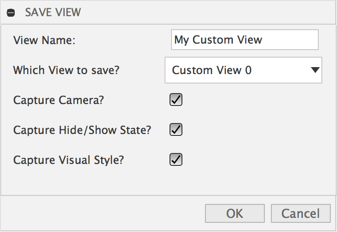
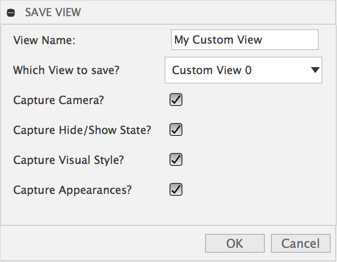
Added Appearances

diff --git a/SaveViewCommand.py b/SaveViewCommand.py
@@ -6,6 +6,7 @@ from .Fusion360Utilities.Fusion360Utilities import AppObjects, get_default_dir
 from .Fusion360Utilities.Fusion360CommandBase import Fusion360CommandBase
 
 import json
+from collections import defaultdict
 
 
 def make_point(point: adsk.core.Point3D):
@@ -130,6 +131,24 @@ def delete_tooltips():
         command_defintion.controlDefinition.isEnabled = False
 
 
+def delete_appearance_attributes():
+    ao = AppObjects()
+
+    appearance_object_attributes = ao.document.attributes.itemsByGroup('displayer_appearances')
+
+    for attribute in appearance_object_attributes:
+        attribute.deleteMe()
+
+
+def remove_all_appearances():
+    ao = AppObjects()
+    all_appearances = ao.design.appearances
+
+    for appearance in all_appearances:
+        used_by = appearance.usedBy
+        for item in used_by:
+            item.appearance = None
+
 def get_view_from_number(custom_view_number):
     ao = AppObjects()
     view_object_attribute = ao.document.attributes.itemByName(
@@ -159,6 +178,55 @@ def refresh_custom_views():
         command_defintion.controlDefinition.isEnabled = True
 
 
+def set_appearances(view_name):
+    ao = AppObjects()
+    attributes = ao.design.findAttributes("displayer_appearances", view_name)
+
+    remove_all_appearances()
+
+    if len(attributes) > 0:
+
+        for attribute in attributes:
+            item = attribute.parent
+
+            if item is not None:
+                item.appearance = ao.design.appearances.itemById(attribute.value)
+
+
+def build_appearances(view_name):
+    ao = AppObjects()
+    all_appearances = ao.design.appearances
+    for appearance in all_appearances:
+        used_by = appearance.usedBy
+        for item in used_by:
+
+            item.attributes.add("displayer_appearances", view_name, appearance.id)
+
+
+def get_appearance_object(view_name):
+    ao = AppObjects()
+    attributes = ao.design.findAttributes("displayer_appearances", view_name)
+
+    appearance_object = defaultdict(list)
+
+    if len(attributes) > 0:
+
+        for attribute in attributes:
+            item = attribute.parent
+
+            if item is not None:
+                appearance_object[attribute.value].append(item)
+
+    return appearance_object
+
+
+def build_appearances_from_object(view_name, appearance_object):
+
+    for appearance_id, item_list in appearance_object.items():
+
+        for item in item_list:
+            item.attributes.add("displayer_appearances", view_name, appearance_id)
+
 # Create a new custom view
 class CaptureViewCommand(Fusion360CommandBase):
 
@@ -166,6 +234,8 @@ class CaptureViewCommand(Fusion360CommandBase):
         ao = AppObjects()
 
         view_object = {"name": input_values['view_name_id']}
+
+        custom_view_name = input_values["view_names_input"]
 
         if input_values["camera_input_checkbox"]:
             view_object["camera"] = build_camera_object()
@@ -176,28 +246,38 @@ class CaptureViewCommand(Fusion360CommandBase):
         if input_values["visual_style_input_checkbox"]:
             view_object["visual_style"] = ao.app.activeViewport.visualStyle
 
+        if input_values["appearances_input_checkbox"]:
+            view_object["appearances"] = custom_view_name
+            build_appearances(custom_view_name)
+
         json_string = json.dumps(view_object)
 
-        ao.document.attributes.add('displayer_custom_views', input_values["view_names_input"], json_string)
+        ao.document.attributes.add('displayer_custom_views', custom_view_name, json_string)
 
         command_definition = ao.ui.commandDefinitions.itemById(
-            'cmdID_SetViewCommand_' + input_values["view_names_input"][-1:]
+            'cmdID_SetViewCommand_' + custom_view_name[-1:]
         )
         command_definition.tooltip = input_values['view_name_id']
         command_definition.controlDefinition.isEnabled = True
 
     def on_create(self, command: adsk.core.Command, inputs: adsk.core.CommandInputs):
+        ao = AppObjects()
+
         inputs.addStringValueInput('view_name_id', "View Name: ", "My Custom View")
 
         drop_input = inputs.addDropDownCommandInput("view_names_input", "Which View to save?",
                                                     adsk.core.DropDownStyles.TextListDropDownStyle)
         for custom_view_number in range(0, 10):
-            drop_input.listItems.add("Custom View " + str(custom_view_number), False)
+            view_name = "Custom View " + str(custom_view_number)
+            view_def = ao.document.attributes.itemByName('displayer_custom_views', view_name)
+            if view_def is None:
+                drop_input.listItems.add("Custom View " + str(custom_view_number), False)
         drop_input.listItems.item(0).isSelected = True
 
         inputs.addBoolValueInput("camera_input_checkbox", "Capture Camera?", True, '', True)
         inputs.addBoolValueInput("display_input_checkbox", "Capture Hide/Show State?", True, '', True)
         inputs.addBoolValueInput("visual_style_input_checkbox", "Capture Visual Style?", True, '', True)
+        inputs.addBoolValueInput("appearances_input_checkbox", "Capture Appearances?", True, '', False)
 
 
 # Set current view to a custom view
@@ -212,16 +292,15 @@ class SetViewCommand(Fusion360CommandBase):
     def on_execute(self, command: adsk.core.Command, inputs: adsk.core.CommandInputs, args, input_values):
         ao = AppObjects()
 
-        view_def = ao.document.attributes.itemByName(
-            'displayer_custom_views',
-            "Custom View " + str(self.custom_view_number)
-        )
+        view_name = "Custom View " + str(self.custom_view_number)
+        view_def = ao.document.attributes.itemByName('displayer_custom_views', view_name)
 
         if view_def is not None:
             view_object = json.loads(view_def.value)
             camera_object = view_object.get("camera", None)
             display_state_object = view_object.get("display_state", None)
             visual_style = view_object.get("visual_style", None)
+            appearances_view_name = view_object.get("appearances", None)
 
             if camera_object is not None:
                 set_camera(camera_object)
@@ -231,6 +310,9 @@ class SetViewCommand(Fusion360CommandBase):
 
             if display_state_object is not None:
                 ao.app.activeViewport.visualStyle = visual_style
+
+            if appearances_view_name is not None:
+                set_appearances(appearances_view_name)
 
     @staticmethod
     def get_tooltip(custom_view_number):
@@ -269,22 +351,33 @@ class ManageViewsCommand(Fusion360CommandBase):
         view_object_attributes = ao.document.attributes.itemsByGroup('displayer_custom_views')
         saved_views = {}
 
+        appearance_views = {}
+
         for view_object_attribute in view_object_attributes:
             view_object = json.loads(view_object_attribute.value)
             saved_views[view_object["name"]] = view_object
-
+            if view_object.get("appearances", None) is not None:
+                appearance_views[view_object["name"]] = get_appearance_object(view_object["appearances"])
+            else:
+                appearance_views[view_object["name"]] = None
         delete_view_attributes()
         delete_tooltips()
+        delete_appearance_attributes()
 
         for cmd_input in inputs:
             view_object = saved_views[cmd_input.name]
+            appearance_object = appearance_views[cmd_input.name]
+            view_name = cmd_input.selectedItem.name
 
             if not cmd_input.selectedItem.name == "**Delete This View**":
-                ao.document.attributes.add('displayer_custom_views', cmd_input.selectedItem.name,
-                                           json.dumps(view_object))
+                ao.document.attributes.add('displayer_custom_views', view_name,
+                                           json.dumps(view_object)
+                                           )
+                if appearance_object is not None:
+                    build_appearances_from_object(view_name, appearance_object)
 
                 command_defintion = ao.ui.commandDefinitions.itemById(
-                    'cmdID_SetViewCommand_' + cmd_input.selectedItem.name[-1:]
+                    'cmdID_SetViewCommand_' + view_name[-1:]
                 )
 
                 command_defintion.tooltip = view_object["name"]
@@ -315,6 +408,7 @@ class DeleteAllViewsCommand(Fusion360CommandBase):
     def on_execute(self, command: adsk.core.Command, inputs: adsk.core.CommandInputs, args, input_values):
         delete_view_attributes()
         delete_tooltips()
+        delete_appearance_attributes()
 
     def on_create(self, command: adsk.core.Command, inputs: adsk.core.CommandInputs):
         inputs.addTextBoxCommandInput("delete_text_input", "",

diff --git a/README.md b/README.md
@@ -14,14 +14,17 @@ _Note: there are a bunch of things I still have planned for this_
 Saves the current view.
 
 Give it a name and choose which custom view slot to save it into.
+Use Unique names to avoid issues.
 
 You can select to save:
 * Camera Orientation
 * Hide / Show state of all parts
 * Visual Style (Shaded, Wire Frame, etc.)
+* Applied Appearances
 
 ![Save View](./resources/save_view.png)
 
+_Note: exporting appearances is not supported_
 
 ### Manage Views
 Allows you to reassign custom views and individually delete them
@@ -49,6 +52,8 @@ Note if you have custom views defined in the current model and you import a view
 ### Export all Custom Views
 
 Exports all the views that you have saved in this model.
+
+_Note: exporting appearances is not supported_
 
 
 ## Custom keyboard shortcuts
